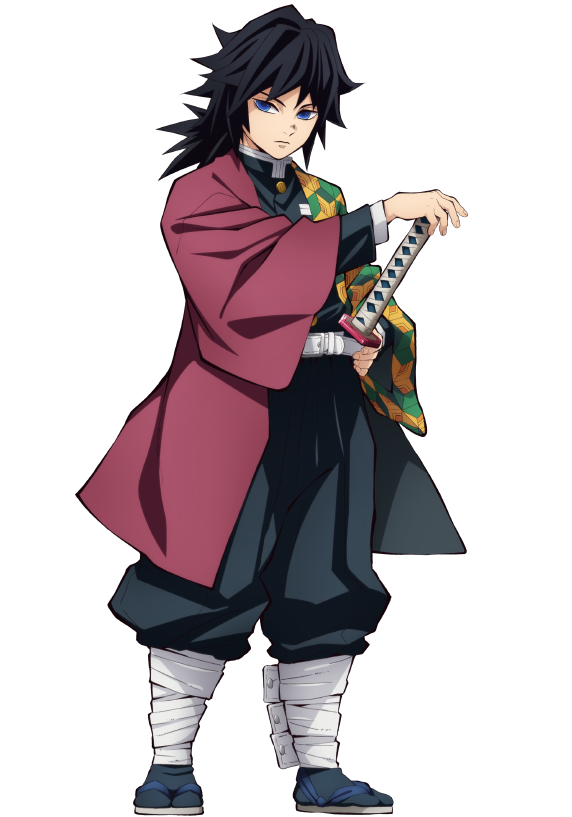
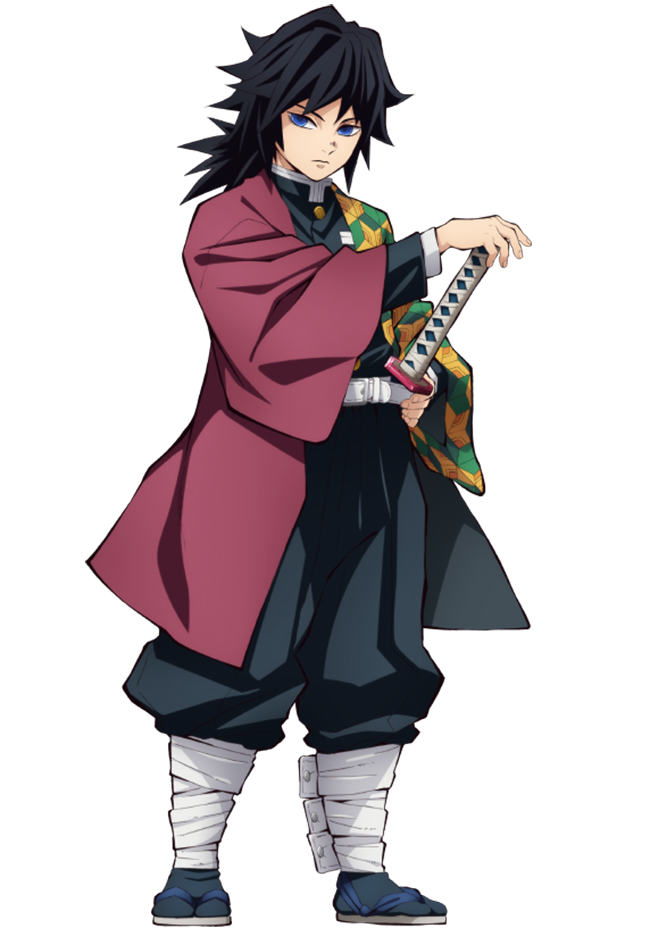
del:img innecesarias, fix:link img

diff --git a/index.html b/index.html
@@ -152,7 +152,7 @@
             </div>
             <div class="d-sm-none d-md-none d-lg-none d-xxl-flex align-items-xxl-center">
                 <aside>
-                    <img class="imgAside" src="./img/rengoku2.png" alt="">
+                    <img class="imgAside" src="./img/rengoku.png" alt="">
                 </aside>
             </div>
         </div>
